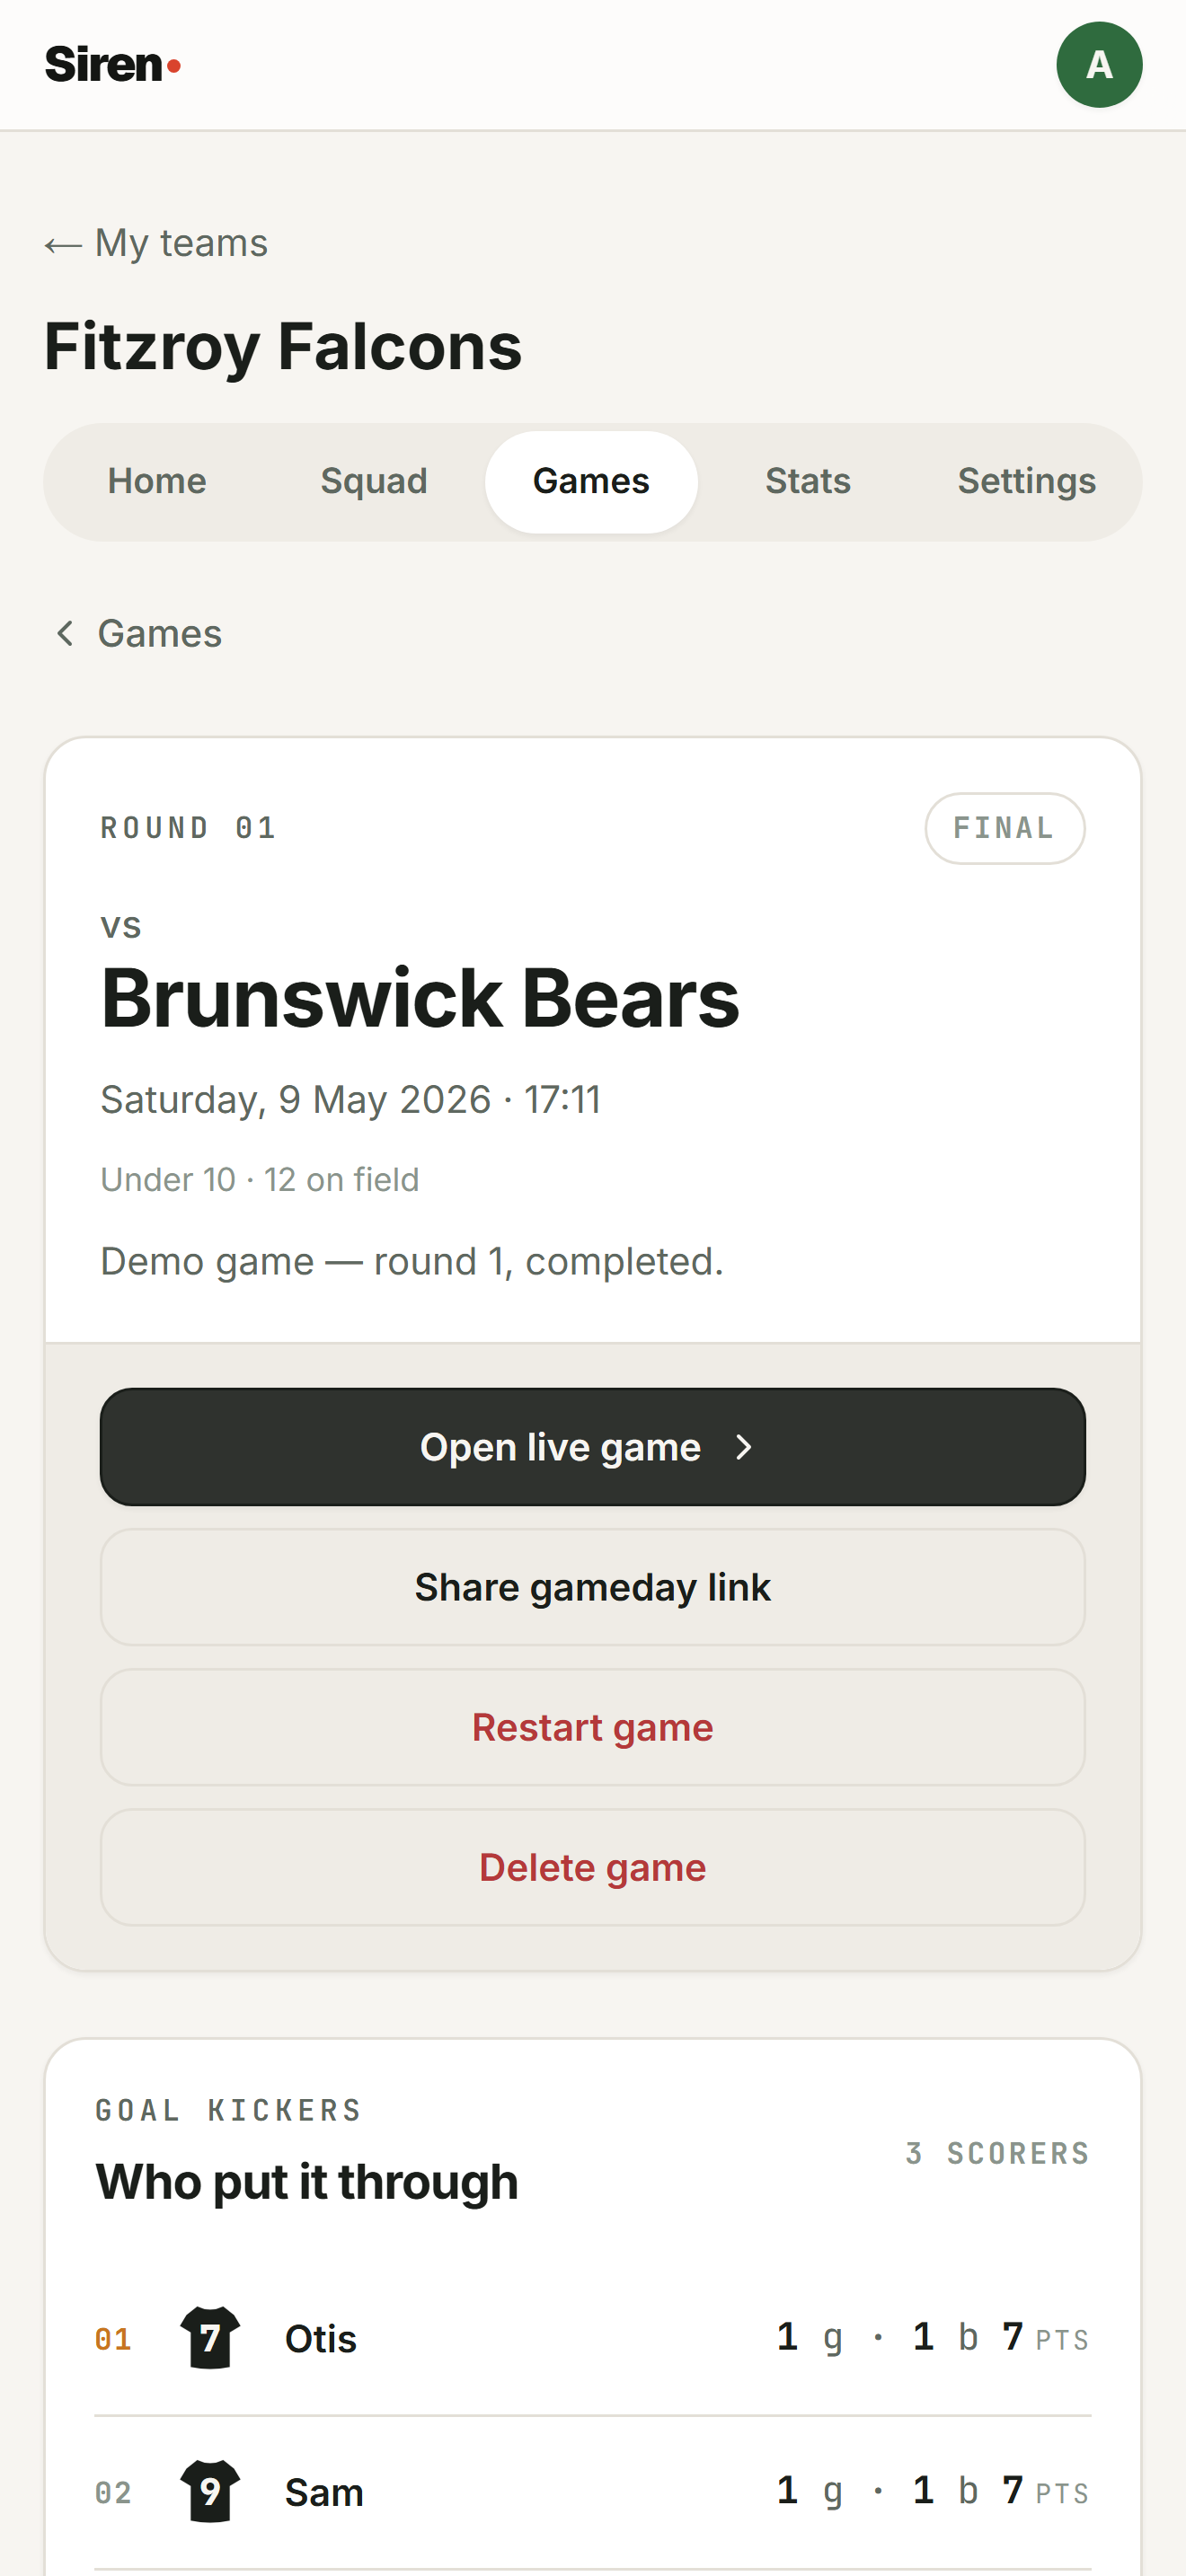
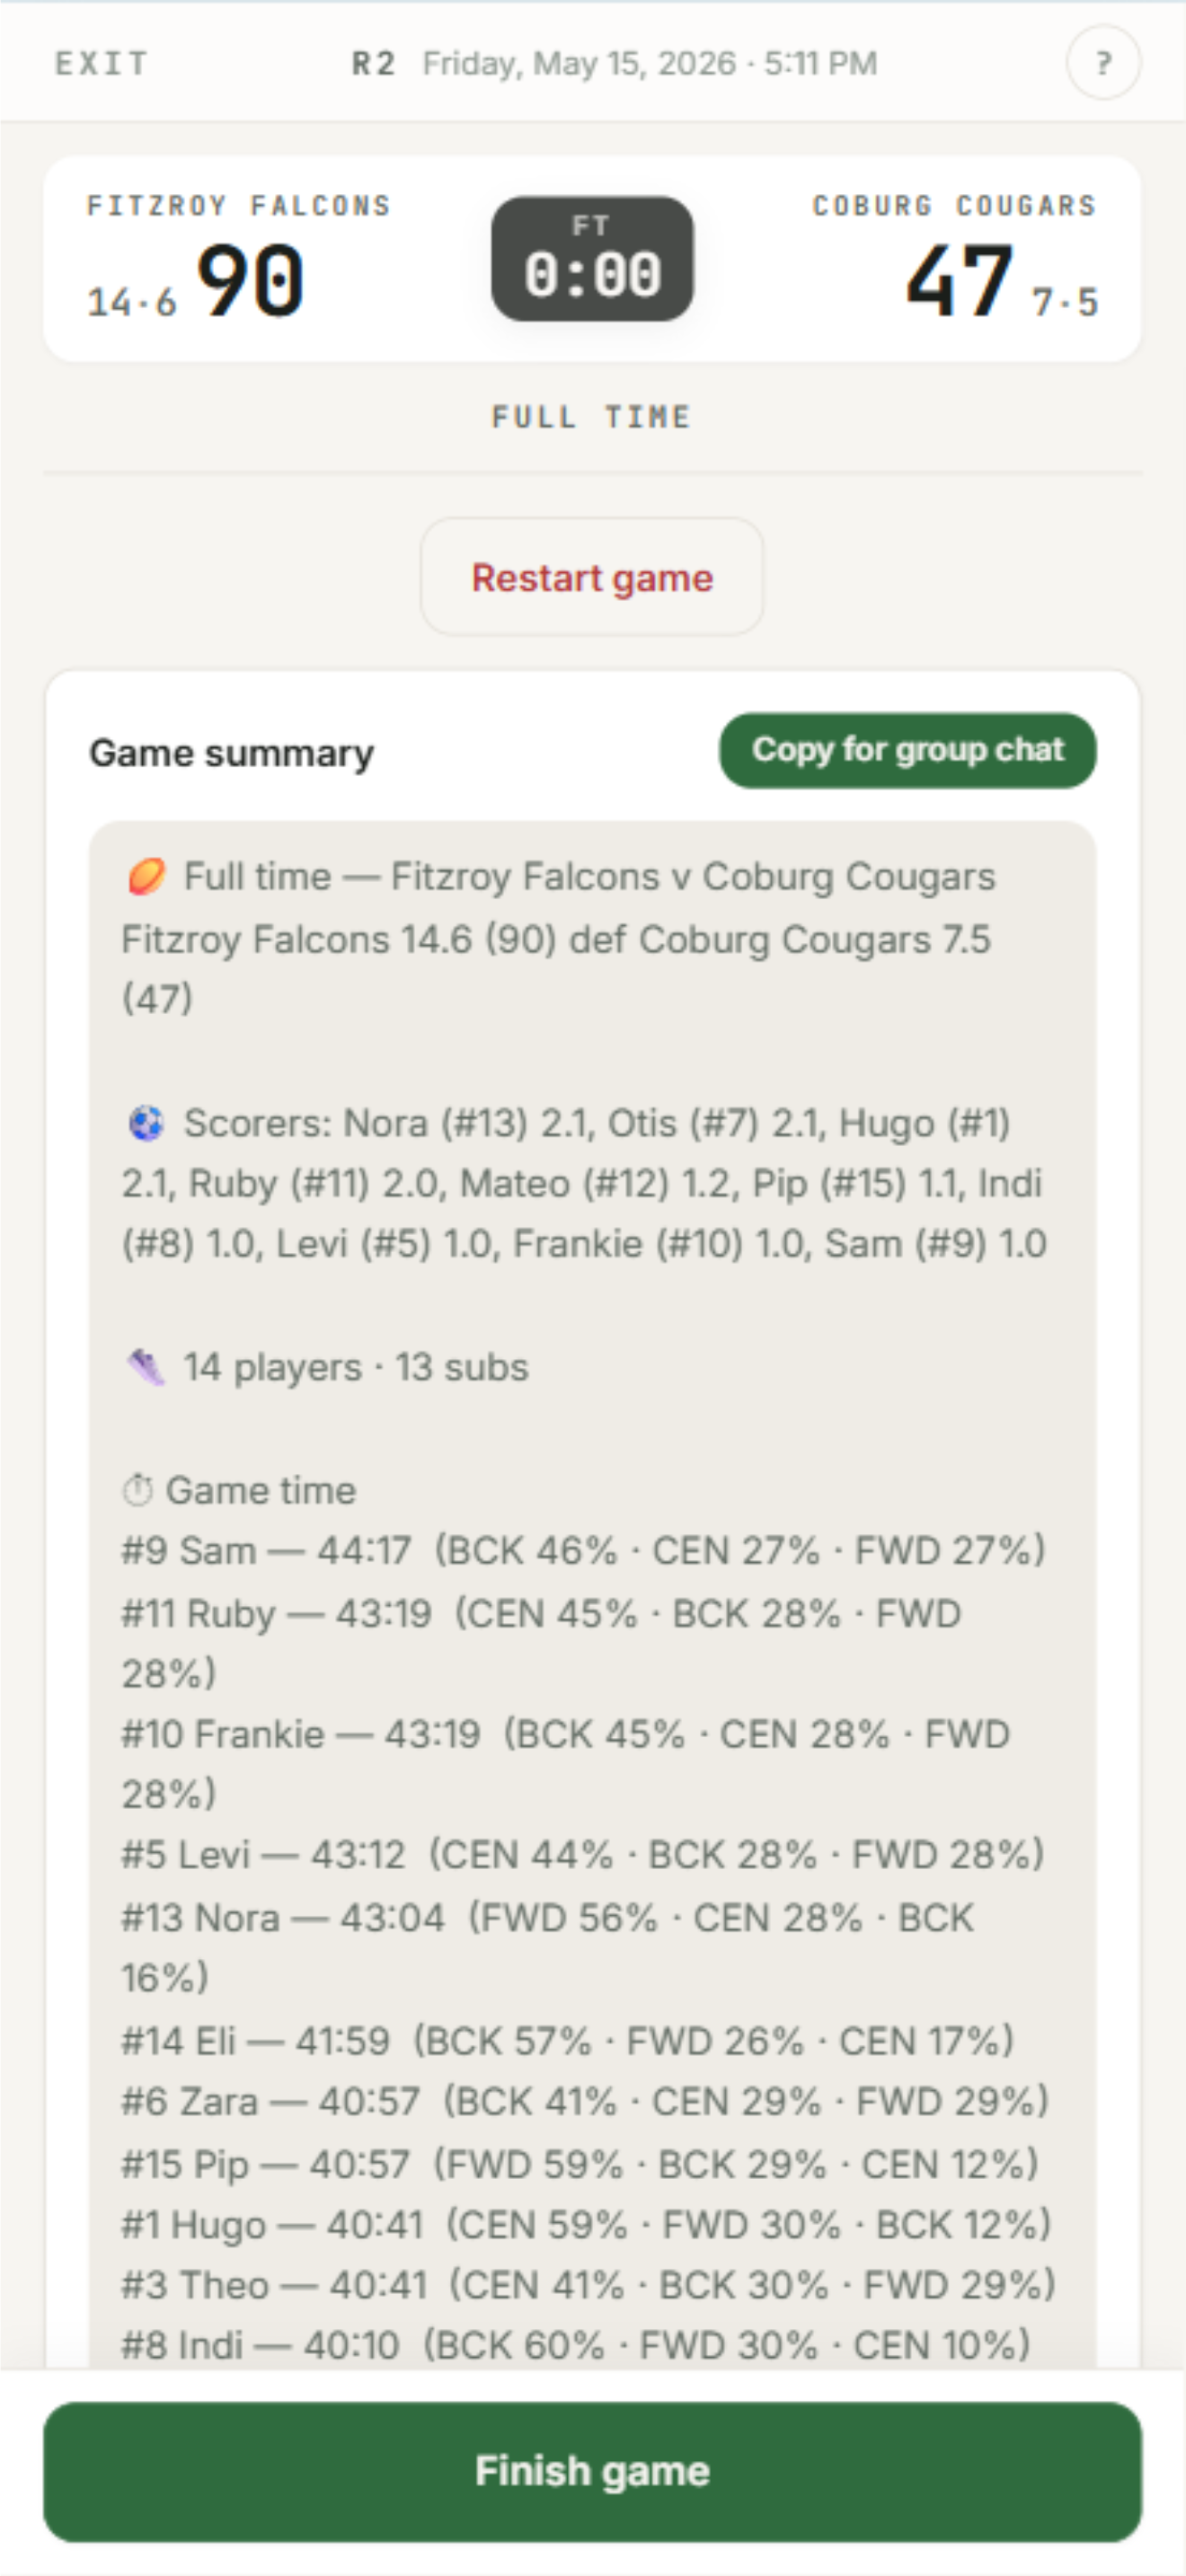
App Review shots: swap shot 02 to the full-time Game Summary card
Steve replaced the game-detail card capture with the actual
Full-Time game summary screen — the prominent "Copy for group
chat" button is now visible, and the per-player game-time +
zone-percentage breakdown fills most of the canvas.

This makes the headline "Every game, recapped for the group chat"
honest — the previous capture was the navigation card that
preceded the recap. The new one IS the recap, with the share CTA
front and centre.

Score in the capture: Fitzroy Falcons 14.6 (90) def Coburg
Cougars 7.5 (47). Steve played the R2 demo game all the way to
full time to grab this shot — the same game body that produces
shots 03 (QB), 05 (sub due) and 06 (player actions) at earlier
states. Each shot was captured by progressing R2 through its
lifecycle.

Pipeline updates:
  - capture-store-screenshots.mjs SHOTS[1]: flagged manualOnly +
    headline string updated to match the doc ("recapped for the
    group chat" matches what's visible on the screen).
  - DESIGN-HANDOFF.md section 02 rewritten end-to-end. Notes the
    fragile capture path (the seed gives R1 a completed state and
    that's where auto-capture would land — but the R1 card view
    is less compelling than R2's FT summary card).
  - ios/02-game-recap.png deleted: stale auto-generated version
    with the wrong content. Designer will produce a new marketed
    version from the updated raw/.

diff --git a/mobile/store/screenshots/DESIGN-HANDOFF.md b/mobile/store/screenshots/DESIGN-HANDOFF.md
@@ -122,17 +122,39 @@ emphasise in brand-green.
 - **Story:** Shows the season-management value prop. Coach
   glances and goes "ah, I can see all my fixtures here".
 
-### 02 — Game recap
+### 02 — Game recap *(full-time summary + copy-for-group-chat)*
 
 - **Source:** `mobile/store/screenshots/raw/02-game-recap.png`
 - **Headline:** "Every game, **recapped** for the group chat."
 - **Emphasis word:** *recapped* (green)
-- **What's on screen:** Round 1 vs Brunswick Bears (FINAL). Game
-  detail card with Open live game / Share gameday link / Restart
-  / Delete buttons. Goal kickers section peeking at the bottom.
-- **Story:** Coach revisits a game after Saturday morning. Shows
-  the recap-and-share value (the "Copy for group chat" button is
-  the kicker — though it lives below the fold here).
+- **What's on screen:** Full-time game summary for Fitzroy
+  Falcons vs Coburg Cougars, R2 (the live game taken to FT for
+  the marketing shot). Top: score-bug Fitzroy Falcons 14.6 (90)
+  vs Coburg Cougars 7.5 (47), FT clock at 0:00. Beneath: "FULL
+  TIME" eyebrow + red "Restart game" link. The Game Summary card
+  fills most of the screen with:
+    - Section heading + a prominent green "Copy for group chat"
+      button (the value-prop CTA).
+    - Plain-English summary line: "Full time — Fitzroy Falcons v
+      Coburg Cougars / Fitzroy Falcons 14.6 (90) def Coburg
+      Cougars 7.5 (47)".
+    - Scorers line with every goal kicker + their tally.
+    - "14 players · 13 subs" chip.
+    - "Game time" breakdown per player — `#X Name — MM:SS (BCK %
+      · CEN % · FWD %)` so a coach can see at a glance who got
+      how much across which zones.
+  Sticky "Finish game" green CTA at the bottom.
+- **Story:** Saturday morning's over. The coach looks at this
+  screen, taps "Copy for group chat", paste it into the team
+  WhatsApp, and parents see the result + fair-time confirmation
+  for their kid. This is THE recap-and-share value prop and it's
+  built right into the FT screen.
+- **Note:** Manual capture only. The screen requires the live
+  R2 game to be finalised, which involves clicking through to
+  full time. After capturing, restart R2 back to its mid-game
+  state via the "Restart game" button so other shots that need
+  R2 mid-quarter still work — or re-run
+  `npm run seed:app-review` to reset all three games.
 
 ### 03 — Quarter break *(the wholesale rebalance)*
 